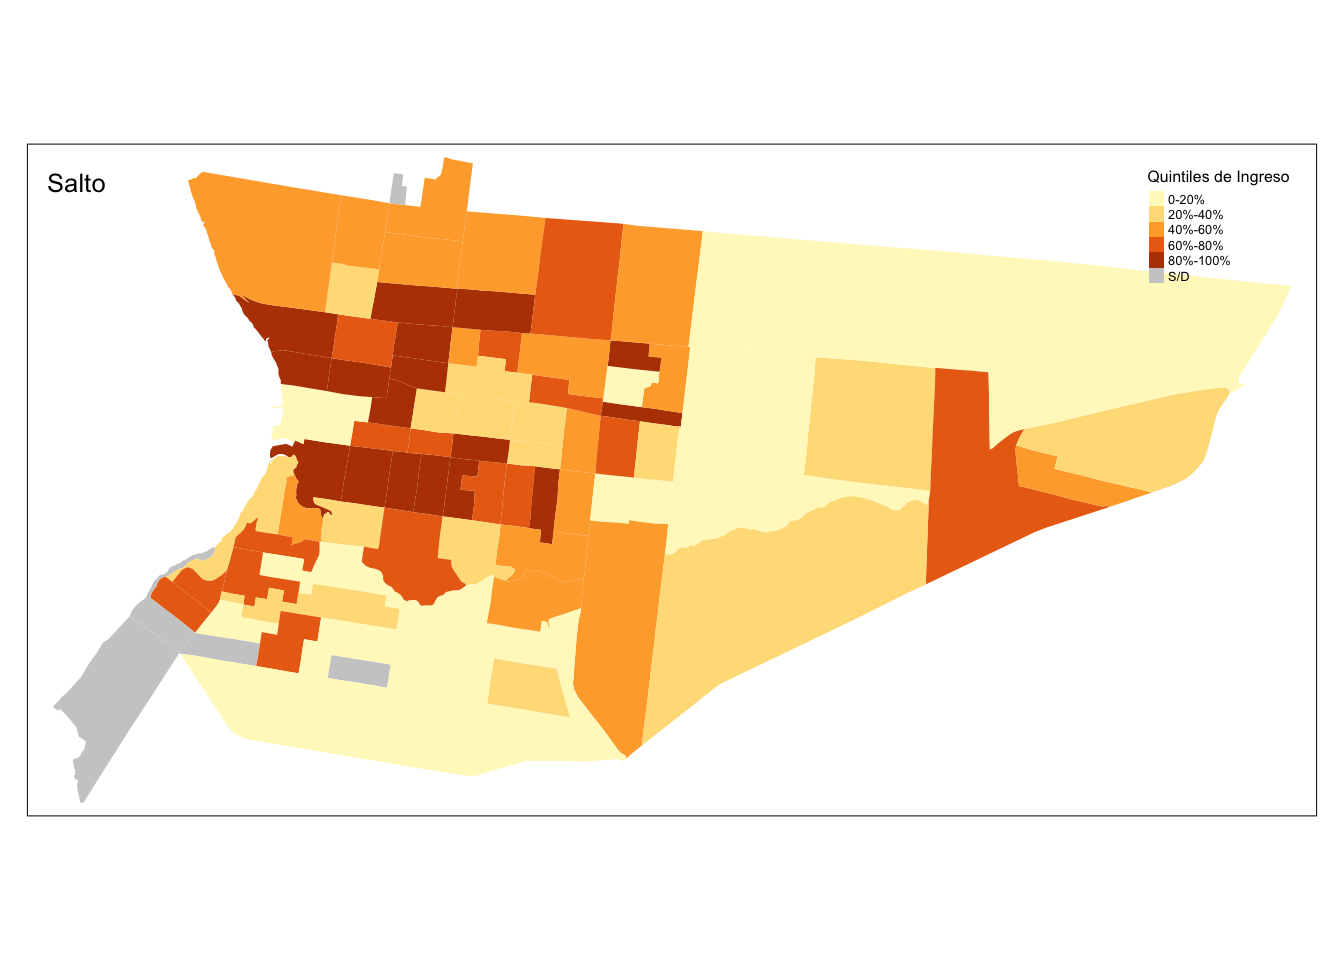
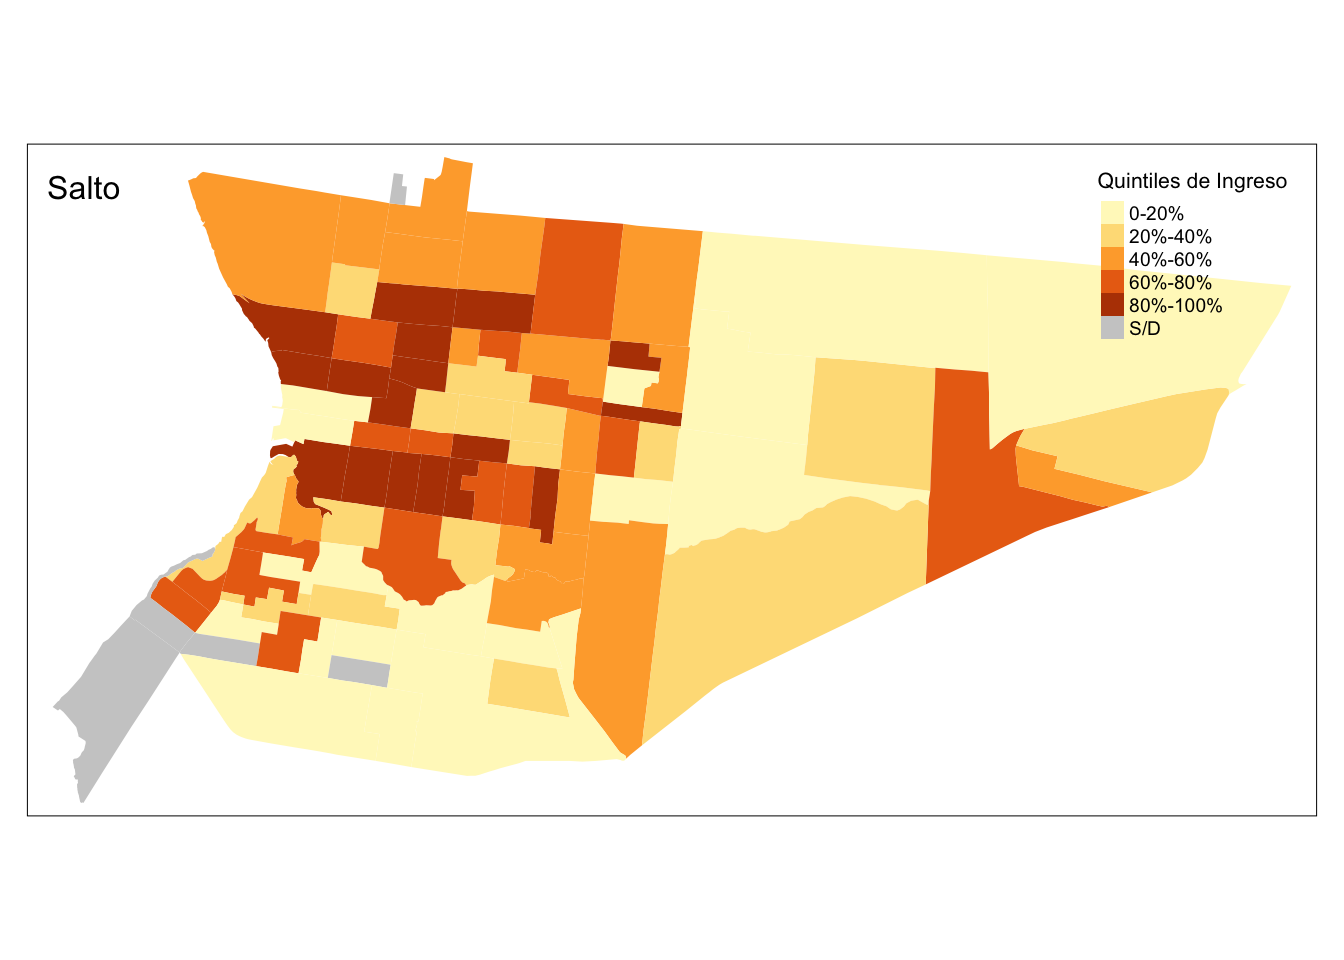
Polish medianas

Changed region(s): [[0.8125, 0.1562, 0.9688, 0.375], [0.0312, 0.1875, 0.0938, 0.2188]]

diff --git a/public/2019/04/13/mapeando-ingresos-en-las-ciudades-de-uruguay/index.html b/public/2019/04/13/mapeando-ingresos-en-las-ciudades-de-uruguay/index.html
@@ -53,7 +53,7 @@
 
   <div class="entry-content">
     <p>En un <a href="https://www.blog.rlabuonora.com/2018/07/17/mapas/">post anterior</a> hice un mapa de Montevideo combinando capas de Open Street View y Shapefiles publicados por el INE. Hace un tiempo que estoy trabajando sobre un curso de <a href="https://www.cwick.co.nz/">Charlotte Wickham</a> sobre mapas y pensé en replicar el proyecto final del curso con datos de Uruguay.</p>
-<p>La principal pregunta que me interesa contestar es ¿cómo es la distribución del ingreso en las ciudades de Uruguay? En Montevideo sabemos que la zona costera es donde se concentran los hogares de mayores ingresos (especialmente Carrasco y Pocitos).</p>
+<p>La principal pregunta que me interesa contestar es ¿cómo es la distribución del ingreso en las ciudades de Uruguay? En Montevideo sabemos que la zona costera es donde se concentran los hogares de mayores ingresos (Carrasco, Punta Gorda, Pocitos, etc.).</p>
 <p>Para visualizar esta estructura, linkeo los datos de la <a href="http://ine.gub.uy/web/guest/encuesta-continua-de-hogares1">Encuesta Continua de Hogares</a> con un mapa de los segmentos censales del país.</p>
 <pre><code>## OGR data source with driver: ESRI Shapefile 
 ## Source: &quot;/Users/rafa/blog_data/mapas_vectoriales_ine&quot;, layer: &quot;ine_seg_11&quot;
@@ -74,7 +74,7 @@ ine_seg_11 &lt;- readOGR(dsn = &#39;~/blog_data/mapas_vectoriales_ine/&#39;,
 <pre><code>## [1] &quot;SpatialPolygonsDataFrame&quot;
 ## attr(,&quot;package&quot;)
 ## [1] &quot;sp&quot;</code></pre>
-<p>Este objeto es un <code>data.frame</code>. Cada fila corresponde a uno de los 4313 segmentos censales de Uruguay. Tiene 13 columnas, incluyendo el <code>AREA</code> y el <code>PERIMETER</code>, el departamento y la localidad donde se ubican.</p>
+<p>Este objeto es un <code>data.frame</code> que además de los tipo de datos usuales (<code>AREA</code>, <code>PERIMETER</code>, departamento, localidad) tiene una columna con la forma y la ubicación de cada segmento censal.</p>
 <pre class="r"><code>head(ine_seg_11@data)</code></pre>
 <pre><code>##        AREA PERIMETER DEPTO SECCION SEGMENTO LOCALIDAD CODSEC CODSEG
 ## 0  14476.50 1785.1361     1       0        0        20    100 100000
@@ -90,7 +90,6 @@ ine_seg_11 &lt;- readOGR(dsn = &#39;~/blog_data/mapas_vectoriales_ine/&#39;,
 ## 3   1020 MONTEVIDEO MONTEVIDEO       UYMO  UYMOMON
 ## 4   1020 MONTEVIDEO MONTEVIDEO       UYMO  UYMOMON
 ## 5   1020 MONTEVIDEO MONTEVIDEO       UYMO  UYMOMON</code></pre>
-<p>Hasta acá sería un <code>data.frame</code> normal, pero también incluye una columna con la forma de cada segmento. Esto es lo que nos va a permitir crear un mapa con estos datos.</p>
 <p>Para saber más sobre estos objetos, recomiendo el capítulo 2 de <a href="https://geocompr.robinlovelace.net/">Geocomputation with R</a>.</p>
 <p>La ECH tiene los ingresos de los hogares identificados por segmento censal, por lo que podemos calcular la mediana de ingresos por segmento con <code>group_by</code> y <code>summarize</code> de <code>dplyr</code>:</p>
 <pre class="r"><code>Sys.setlocale(&quot;LC_ALL&quot;, &quot;UTF-8&quot;)</code></pre>
@@ -111,14 +110,14 @@ medianas &lt;- ingresos_ech %&gt;%
 </div>
 <div id="elegir-una-localidad" class="section level1">
 <h1>Elegir una localidad</h1>
-<p>Una vez calculada esta estimación, elijo una localidad para subsetear el mapa</p>
+<p>Una vez calculada esta estimación, elijo una localidad para subsetear el mapa.</p>
 <pre class="r"><code># Salto es la localidad 1120
 cod_loc &lt;- &quot;15120&quot;
 mapa_loc &lt;- ine_seg_11[ine_seg_11$CODLOC == cod_loc,]</code></pre>
 </div>
 <div id="pegar-las-estimaciones" class="section level1">
 <h1>Pegar las estimaciones</h1>
-<p>y linkeo el mapa con las medianas por sección:</p>
+<p>Para visualizar las medianas por segmento, le agrego la columna con la mediana de cada segmento usando <code>depto_id</code>, <code>seccion_id</code> y <code>segmento_id</code> como identificadores:</p>
 <pre class="r"><code>mapa_loc@data &lt;- mapa_loc@data %&gt;% 
     left_join(medianas, by = c(&quot;DEPTO&quot; = &quot;depto_id&quot;,
                                &quot;SECCION&quot; = &quot;seccion_id&quot;,
@@ -132,9 +131,9 @@ mapa_loc &lt;- ine_seg_11[ine_seg_11$CODLOC == cod_loc,]</code></pre>
             labels = c(&quot;0-20%&quot;, &quot;20%-40%&quot;, &quot;40%-60%&quot;, &quot;60%-80%&quot;, &quot;80%-100%&quot;),
             title = &quot;Quintiles de Ingreso&quot;) +
     tm_layout(&quot;Salto&quot;, legend.position = c(&quot;right&quot;, &quot;top&quot;),
-              legend.text.size = 0.4,
-              legend.title.size = 0.6, 
-              title.size = 0.8)</code></pre>
+              legend.text.size = 0.6,
+              legend.title.size = 0.8, 
+              title.size = 1)</code></pre>
 <p><img src="/post/2019-04-13-mapeando-ingresos-en-las-ciudades-de-uruguay_files/figure-html/unnamed-chunk-7-1.png" width="672" /></p>
 </div>
 <div id="una-funcion" class="section level1">
@@ -207,7 +206,8 @@ mapa_loc &lt;- ine_seg_11[ine_seg_11$CODLOC == cod_loc,]</code></pre>
 ## with 4313 features
 ## It has 13 fields</code></pre>
 <p><img src="/post/2019-04-13-mapeando-ingresos-en-las-ciudades-de-uruguay_files/figure-html/unnamed-chunk-9-1.png" width="672" /></p>
-<p>El problema más grande que le veo a estos mapas es que si no conocemos la ciudad es difícil entender el mapa. Para solucionar esto necesitaríamos agregarle referencias geográficas como calles o cuerpos de agua que permitan hacerse una idea de la forma de la ciudad. Dejo eso para otro post.</p>
+<p>Lo que más me gustaría mejorar de estos mapas es poder agregar referencias como calles importantes o cuerpos de agua que permitan ubicarse mejor en la geografía de la ciudad. Dejo eso para otro post.</p>
+<p>La estimación de las medianas probablemente deja mucho que desear desde el punto de vista estadístico también.</p>
 </div>
 
   </div>

diff --git a/content/post/2019-04-13-mapeando-ingresos-en-las-ciudades-de-uruguay.html b/content/post/2019-04-13-mapeando-ingresos-en-las-ciudades-de-uruguay.html
@@ -10,7 +10,7 @@ tags: []
 
 
 <p>En un <a href="https://www.blog.rlabuonora.com/2018/07/17/mapas/">post anterior</a> hice un mapa de Montevideo combinando capas de Open Street View y Shapefiles publicados por el INE. Hace un tiempo que estoy trabajando sobre un curso de <a href="https://www.cwick.co.nz/">Charlotte Wickham</a> sobre mapas y pensé en replicar el proyecto final del curso con datos de Uruguay.</p>
-<p>La principal pregunta que me interesa contestar es ¿cómo es la distribución del ingreso en las ciudades de Uruguay? En Montevideo sabemos que la zona costera es donde se concentran los hogares de mayores ingresos (especialmente Carrasco y Pocitos).</p>
+<p>La principal pregunta que me interesa contestar es ¿cómo es la distribución del ingreso en las ciudades de Uruguay? En Montevideo sabemos que la zona costera es donde se concentran los hogares de mayores ingresos (Carrasco, Punta Gorda, Pocitos, etc.).</p>
 <p>Para visualizar esta estructura, linkeo los datos de la <a href="http://ine.gub.uy/web/guest/encuesta-continua-de-hogares1">Encuesta Continua de Hogares</a> con un mapa de los segmentos censales del país.</p>
 <pre><code>## OGR data source with driver: ESRI Shapefile 
 ## Source: &quot;/Users/rafa/blog_data/mapas_vectoriales_ine&quot;, layer: &quot;ine_seg_11&quot;
@@ -31,7 +31,7 @@ ine_seg_11 &lt;- readOGR(dsn = &#39;~/blog_data/mapas_vectoriales_ine/&#39;,
 <pre><code>## [1] &quot;SpatialPolygonsDataFrame&quot;
 ## attr(,&quot;package&quot;)
 ## [1] &quot;sp&quot;</code></pre>
-<p>Este objeto es un <code>data.frame</code>. Cada fila corresponde a uno de los 4313 segmentos censales de Uruguay. Tiene 13 columnas, incluyendo el <code>AREA</code> y el <code>PERIMETER</code>, el departamento y la localidad donde se ubican.</p>
+<p>Este objeto es un <code>data.frame</code> que además de los tipo de datos usuales (<code>AREA</code>, <code>PERIMETER</code>, departamento, localidad) tiene una columna con la forma y la ubicación de cada segmento censal.</p>
 <pre class="r"><code>head(ine_seg_11@data)</code></pre>
 <pre><code>##        AREA PERIMETER DEPTO SECCION SEGMENTO LOCALIDAD CODSEC CODSEG
 ## 0  14476.50 1785.1361     1       0        0        20    100 100000
@@ -47,7 +47,6 @@ ine_seg_11 &lt;- readOGR(dsn = &#39;~/blog_data/mapas_vectoriales_ine/&#39;,
 ## 3   1020 MONTEVIDEO MONTEVIDEO       UYMO  UYMOMON
 ## 4   1020 MONTEVIDEO MONTEVIDEO       UYMO  UYMOMON
 ## 5   1020 MONTEVIDEO MONTEVIDEO       UYMO  UYMOMON</code></pre>
-<p>Hasta acá sería un <code>data.frame</code> normal, pero también incluye una columna con la forma de cada segmento. Esto es lo que nos va a permitir crear un mapa con estos datos.</p>
 <p>Para saber más sobre estos objetos, recomiendo el capítulo 2 de <a href="https://geocompr.robinlovelace.net/">Geocomputation with R</a>.</p>
 <p>La ECH tiene los ingresos de los hogares identificados por segmento censal, por lo que podemos calcular la mediana de ingresos por segmento con <code>group_by</code> y <code>summarize</code> de <code>dplyr</code>:</p>
 <pre class="r"><code>Sys.setlocale(&quot;LC_ALL&quot;, &quot;UTF-8&quot;)</code></pre>
@@ -68,14 +67,14 @@ medianas &lt;- ingresos_ech %&gt;%
 </div>
 <div id="elegir-una-localidad" class="section level1">
 <h1>Elegir una localidad</h1>
-<p>Una vez calculada esta estimación, elijo una localidad para subsetear el mapa</p>
+<p>Una vez calculada esta estimación, elijo una localidad para subsetear el mapa.</p>
 <pre class="r"><code># Salto es la localidad 1120
 cod_loc &lt;- &quot;15120&quot;
 mapa_loc &lt;- ine_seg_11[ine_seg_11$CODLOC == cod_loc,]</code></pre>
 </div>
 <div id="pegar-las-estimaciones" class="section level1">
 <h1>Pegar las estimaciones</h1>
-<p>y linkeo el mapa con las medianas por sección:</p>
+<p>Para visualizar las medianas por segmento, le agrego la columna con la mediana de cada segmento usando <code>depto_id</code>, <code>seccion_id</code> y <code>segmento_id</code> como identificadores:</p>
 <pre class="r"><code>mapa_loc@data &lt;- mapa_loc@data %&gt;% 
     left_join(medianas, by = c(&quot;DEPTO&quot; = &quot;depto_id&quot;,
                                &quot;SECCION&quot; = &quot;seccion_id&quot;,
@@ -89,9 +88,9 @@ mapa_loc &lt;- ine_seg_11[ine_seg_11$CODLOC == cod_loc,]</code></pre>
             labels = c(&quot;0-20%&quot;, &quot;20%-40%&quot;, &quot;40%-60%&quot;, &quot;60%-80%&quot;, &quot;80%-100%&quot;),
             title = &quot;Quintiles de Ingreso&quot;) +
     tm_layout(&quot;Salto&quot;, legend.position = c(&quot;right&quot;, &quot;top&quot;),
-              legend.text.size = 0.4,
-              legend.title.size = 0.6, 
-              title.size = 0.8)</code></pre>
+              legend.text.size = 0.6,
+              legend.title.size = 0.8, 
+              title.size = 1)</code></pre>
 <p><img src="/post/2019-04-13-mapeando-ingresos-en-las-ciudades-de-uruguay_files/figure-html/unnamed-chunk-7-1.png" width="672" /></p>
 </div>
 <div id="una-funcion" class="section level1">
@@ -164,5 +163,6 @@ mapa_loc &lt;- ine_seg_11[ine_seg_11$CODLOC == cod_loc,]</code></pre>
 ## with 4313 features
 ## It has 13 fields</code></pre>
 <p><img src="/post/2019-04-13-mapeando-ingresos-en-las-ciudades-de-uruguay_files/figure-html/unnamed-chunk-9-1.png" width="672" /></p>
-<p>El problema más grande que le veo a estos mapas es que si no conocemos la ciudad es difícil entender el mapa. Para solucionar esto necesitaríamos agregarle referencias geográficas como calles o cuerpos de agua que permitan hacerse una idea de la forma de la ciudad. Dejo eso para otro post.</p>
+<p>Lo que más me gustaría mejorar de estos mapas es poder agregar referencias como calles importantes o cuerpos de agua que permitan ubicarse mejor en la geografía de la ciudad. Dejo eso para otro post.</p>
+<p>La estimación de las medianas probablemente deja mucho que desear desde el punto de vista estadístico también.</p>
 </div>
